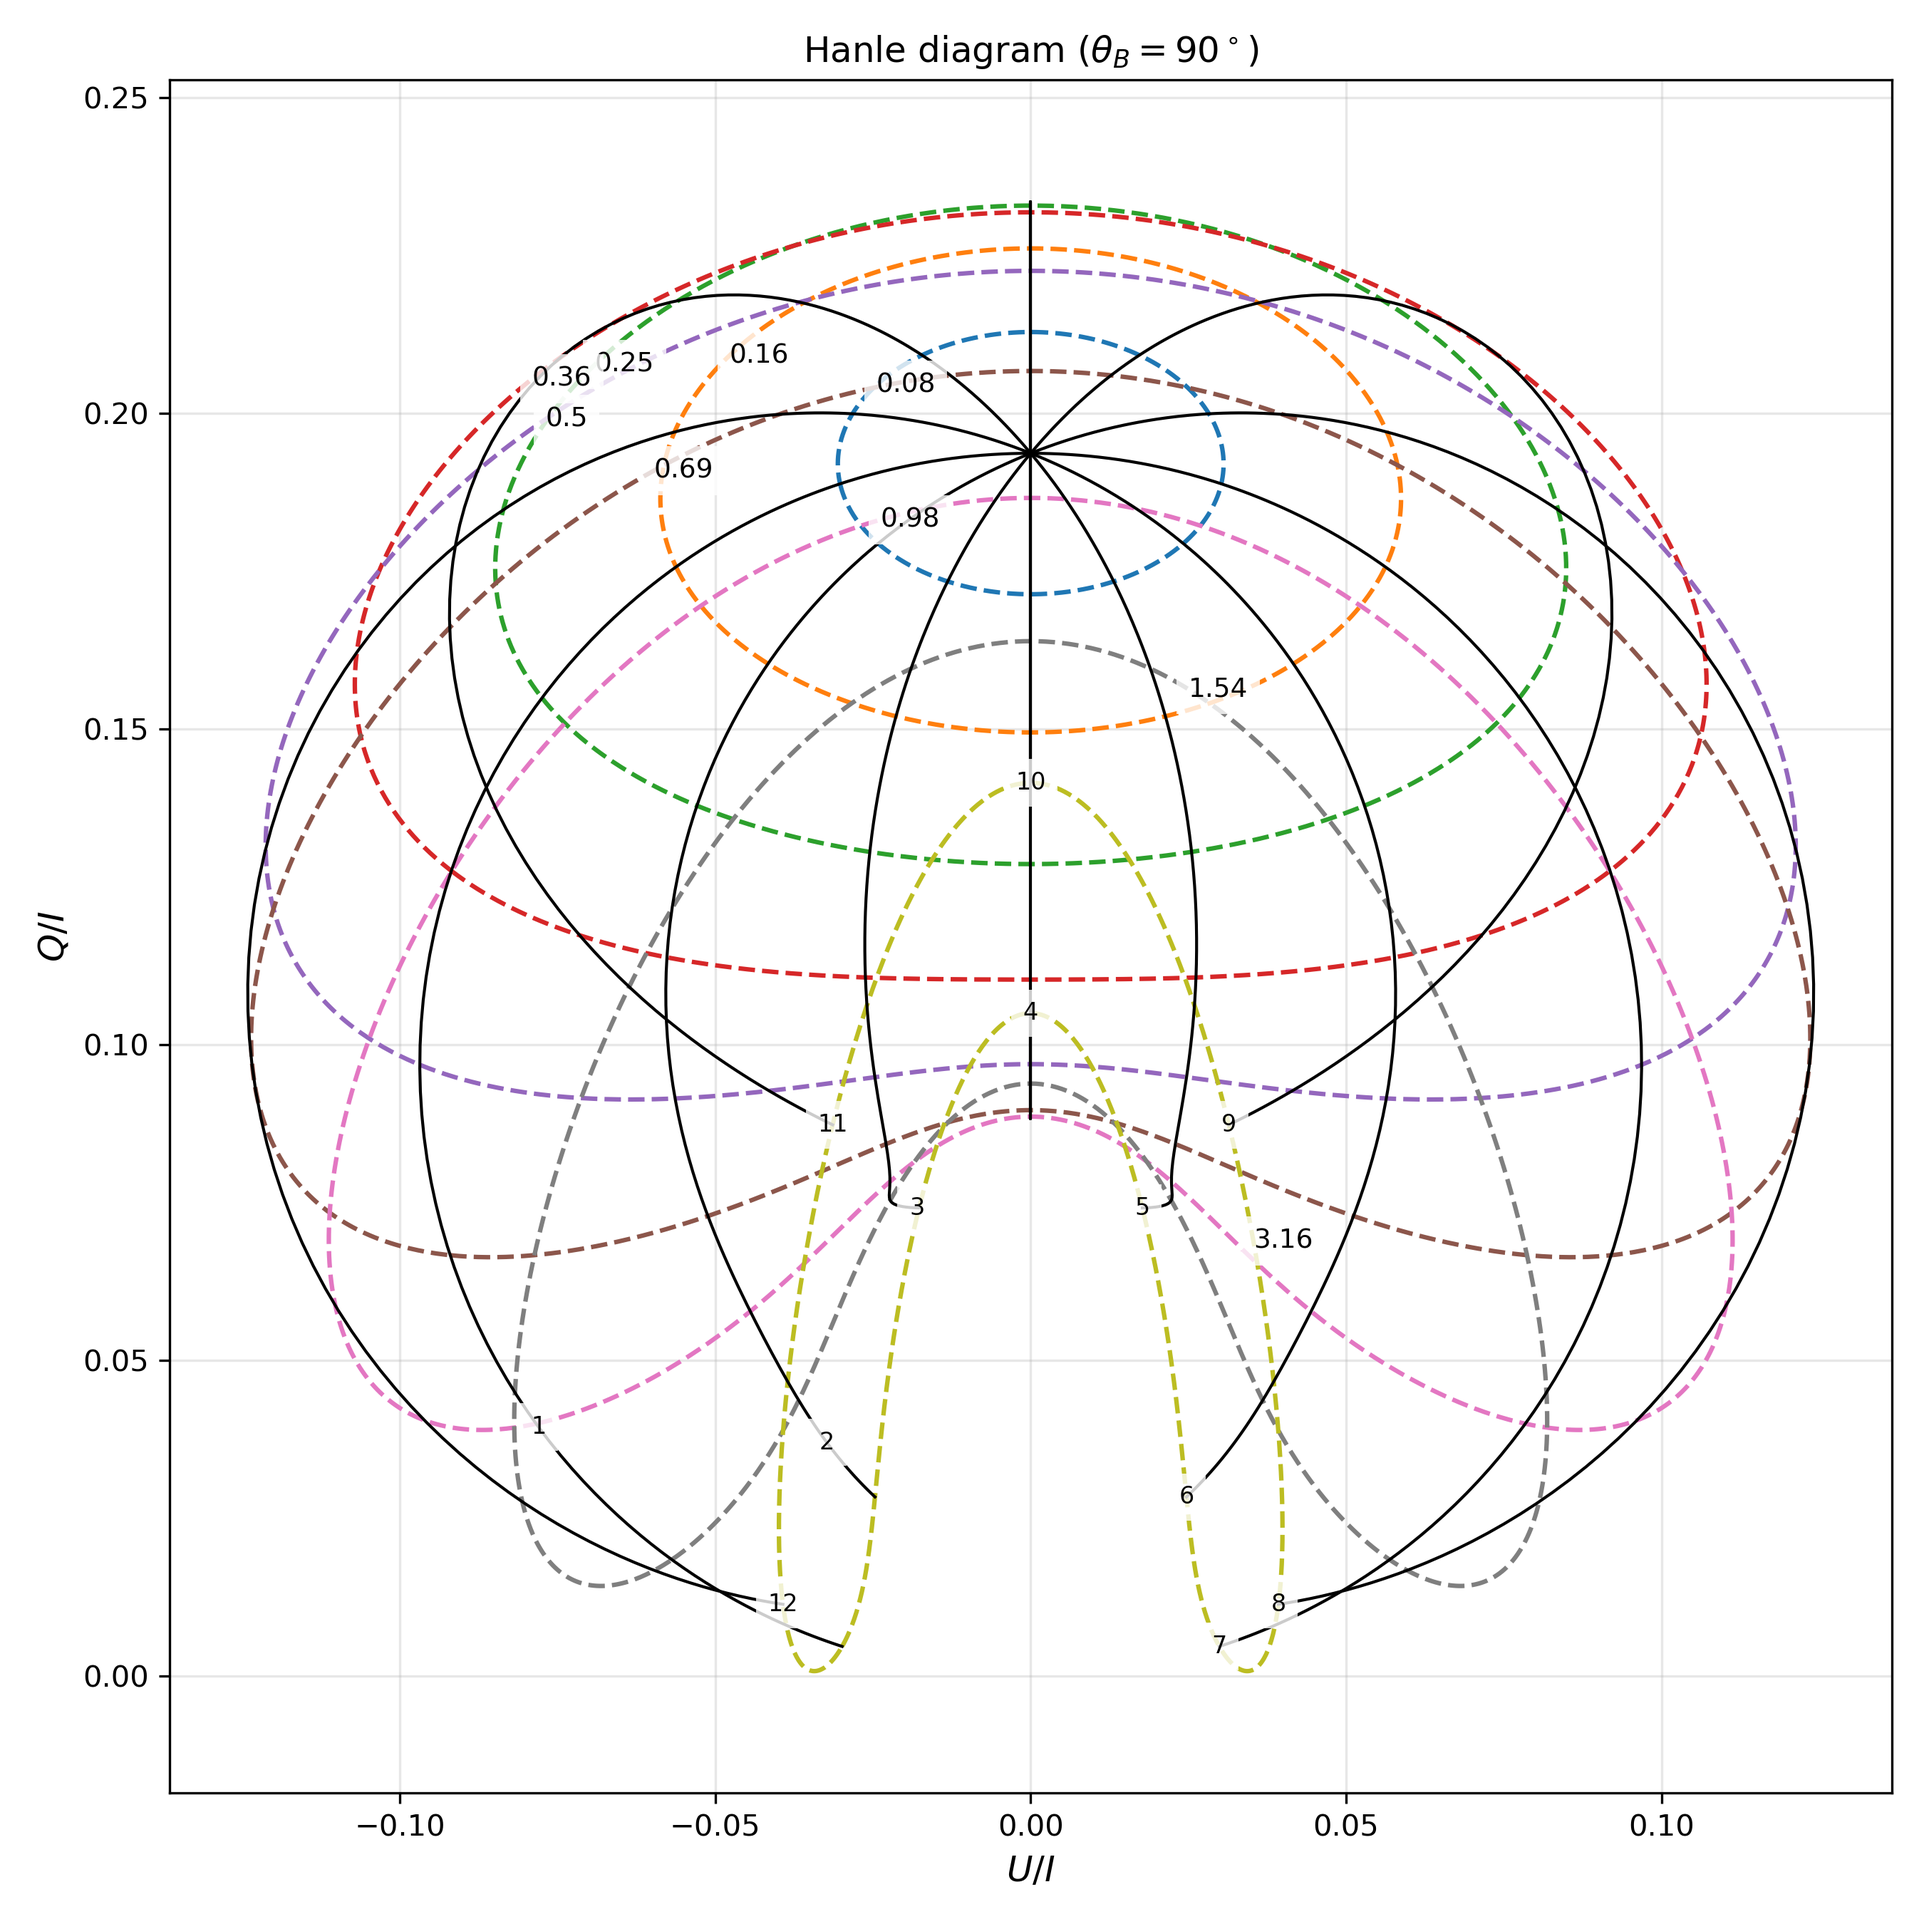
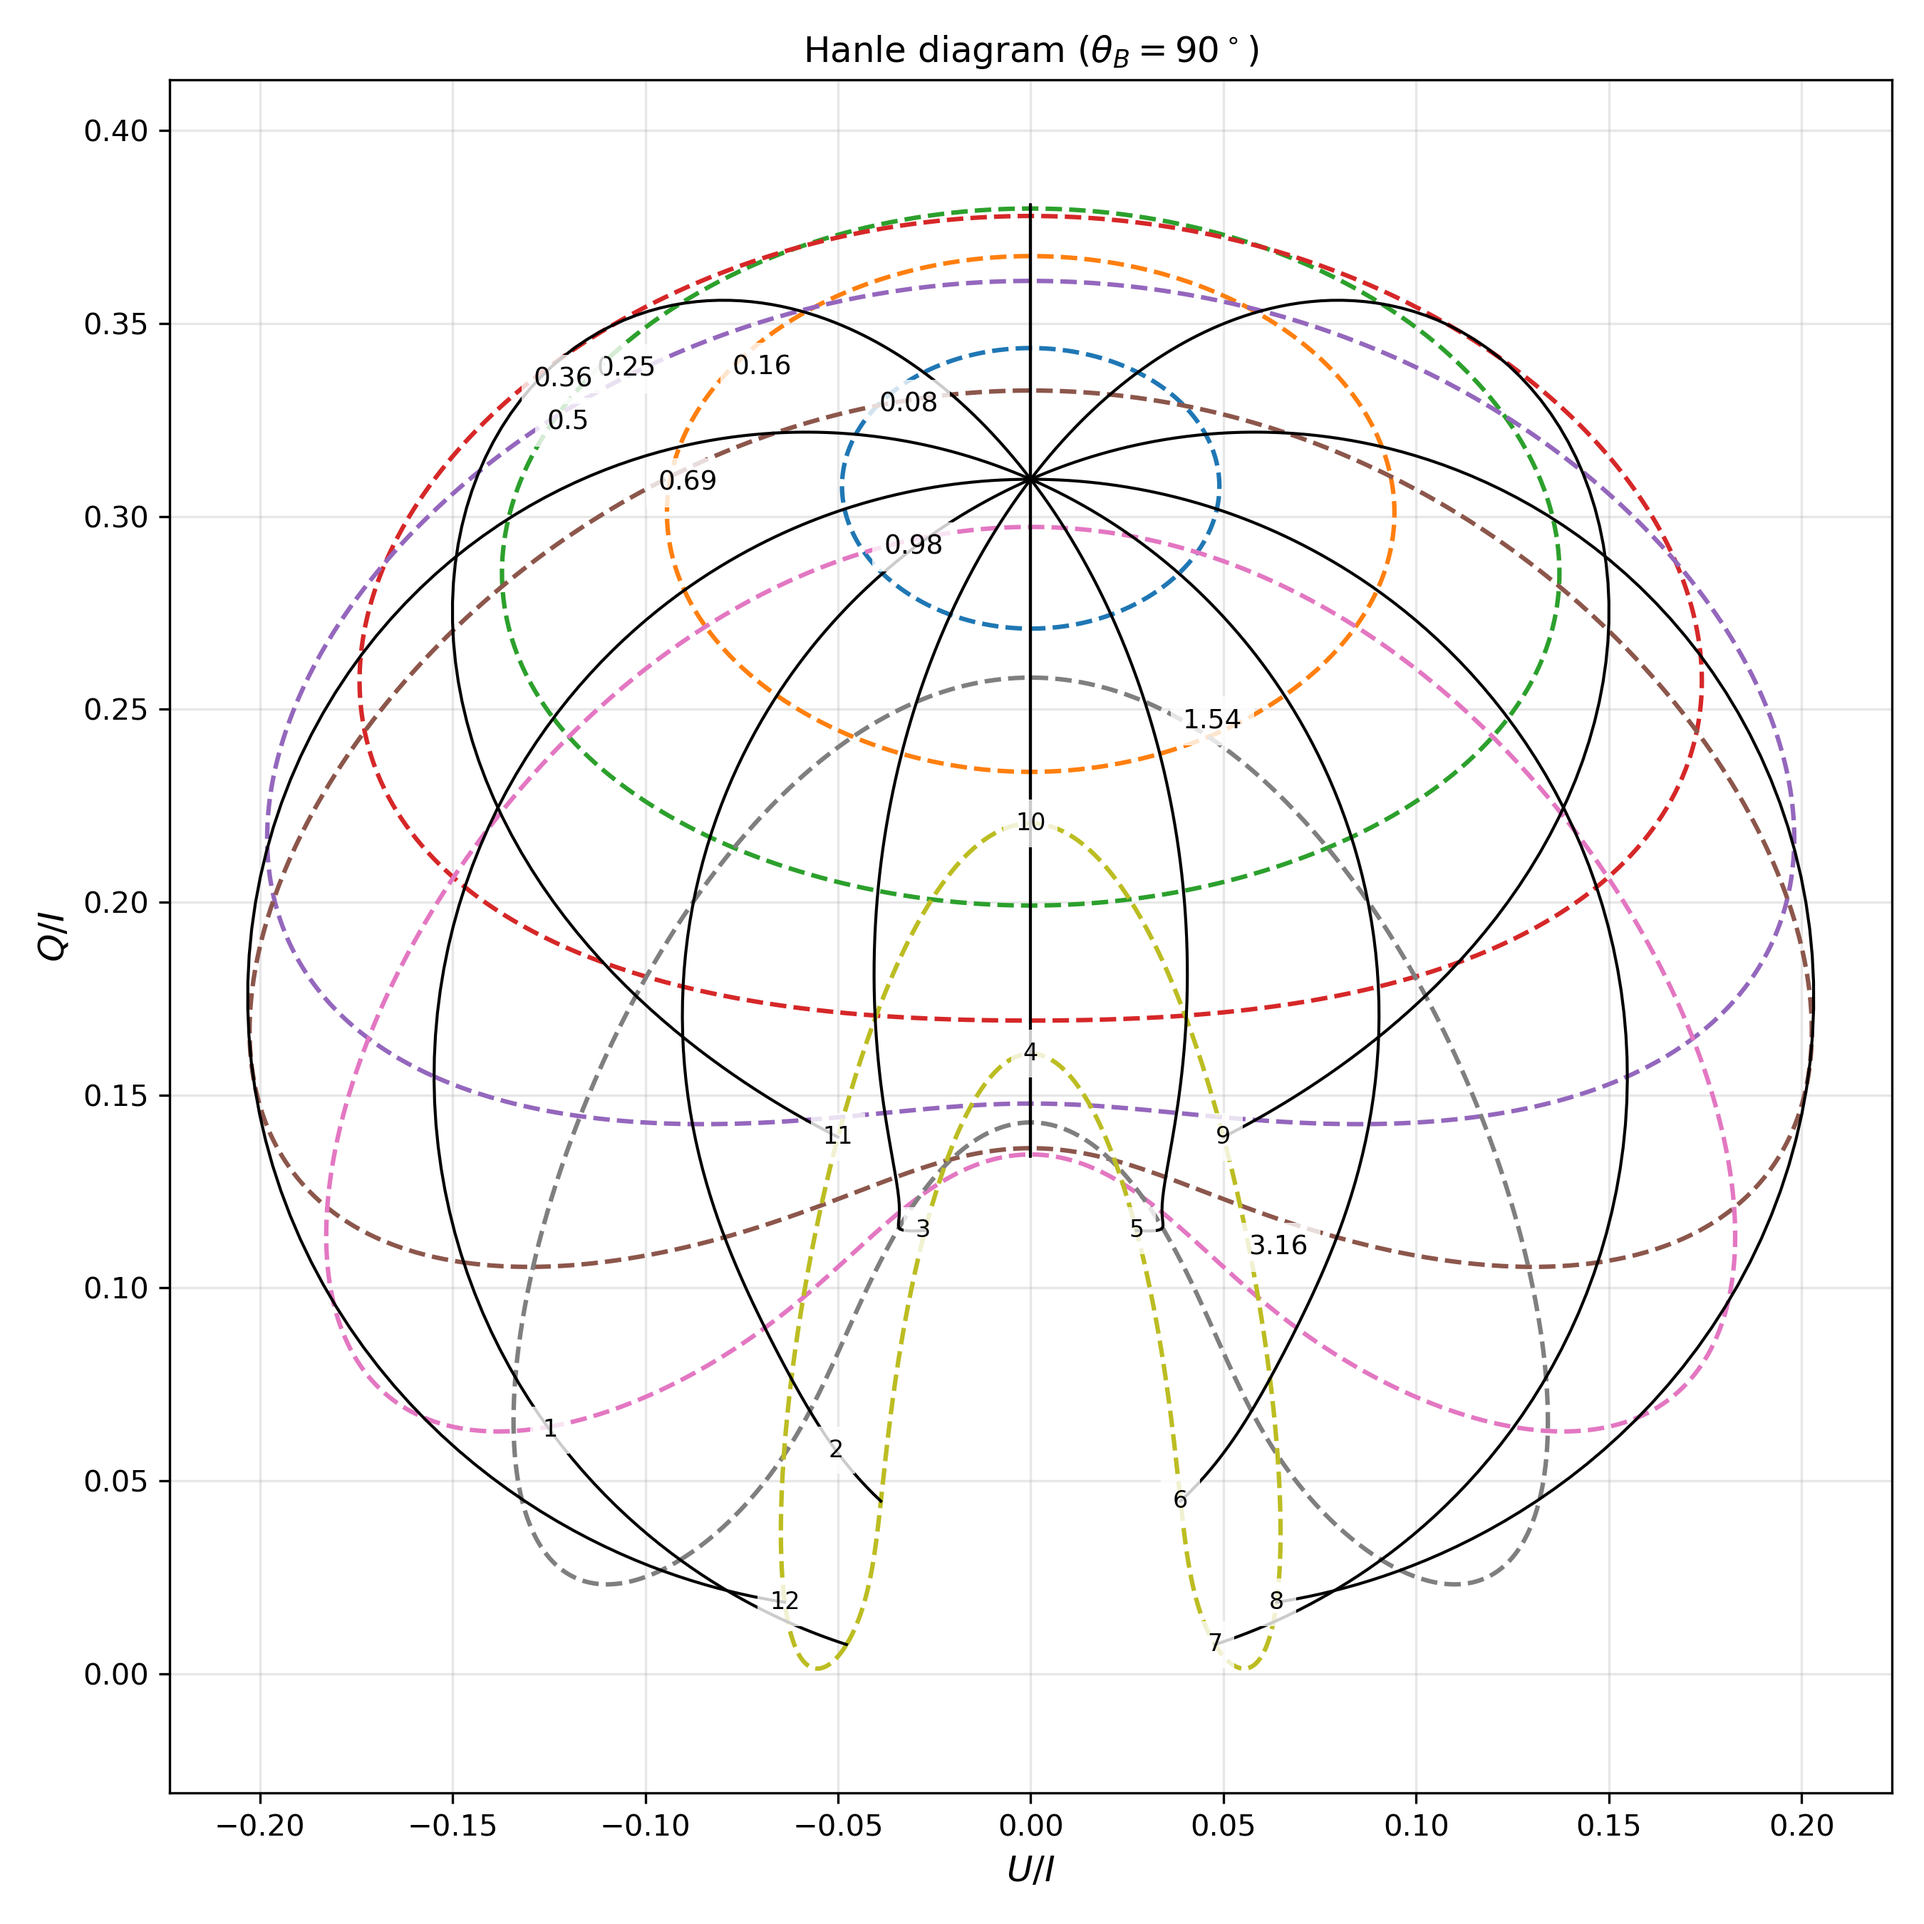
Fig 13.4 scale fixed :)

diff --git a/Polarization-in-spectral-lines/SEE.py b/Polarization-in-spectral-lines/SEE.py
@@ -2010,8 +2010,9 @@ plt.savefig(
 )
 
 # Fig. 13.4, delta = 30 deg
-
-hR = 0.073
+delta = np.radians(30.0)
+hp = 0.073      # projected height from Fig. 13.3
+hR = (1 + hp)/np.cos(delta) - 1
 gamma_obs = np.pi/2
 chi_obs = 0.0
 
@@ -2509,6 +2510,20 @@ S0 = sum(abs(J0[(2,Q)])**2 for Q in range(-2,3))
 S30 = sum(abs(J30[(2,Q)])**2 for Q in range(-2,3))
 print(S0)
 print(S30)
+
+print("---------")
+for Hu in [1e-6,1e-4,1e-2,0.1,1.0,10,1e6]:
+    for chi_B in [0, 90, 270]:
+        pQ,pU = hanle_polarization_corrected(
+            Hu=Hu,
+            J_rad=Jrad,
+            theta_B=np.pi/2,
+            chi_B=np.radians(chi_B),
+            theta_obs=np.pi/2,
+            chi_obs=0.0,
+            gamma_obs=np.pi/2
+        )
+        print(Hu,chi_B,pQ,pU)
 
 def tP_observer(i):
 
